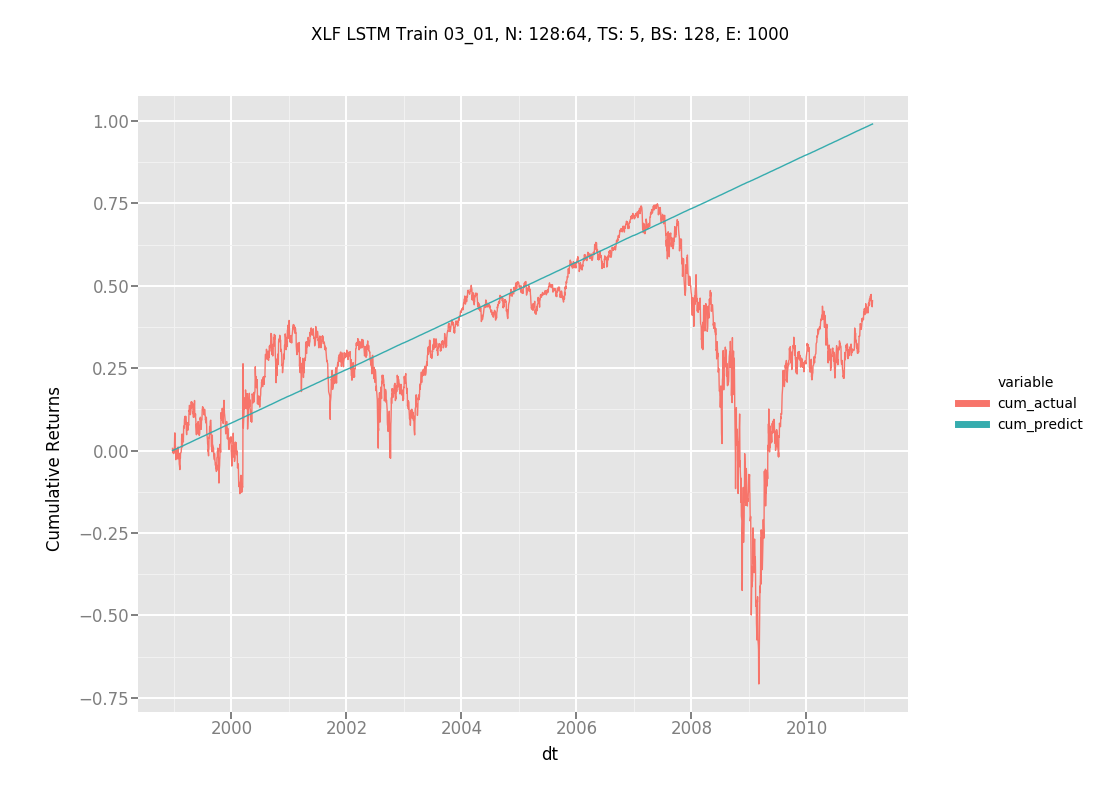
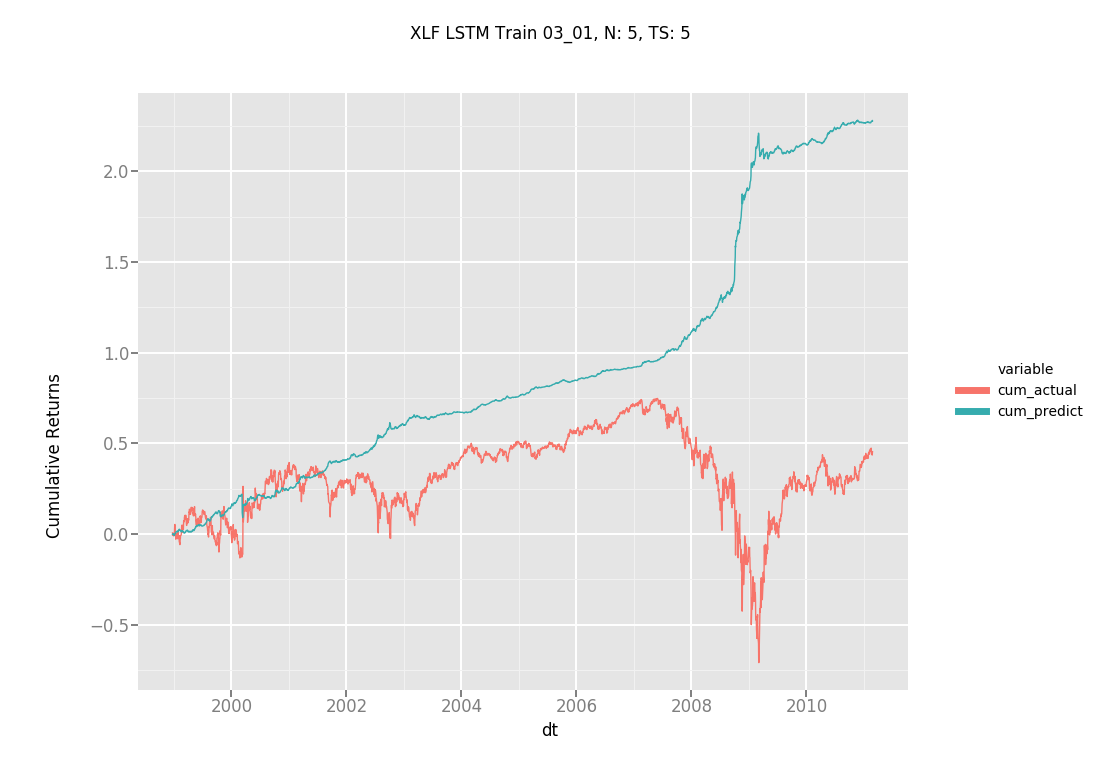
added 03_01

diff --git a/03/01/plot.py b/03/01/plot.py
@@ -3,7 +3,7 @@ import pandas as pd
 from ggplot import *
 conn = psycopg2.connect(dbname="ventris", host="192.168.1.119", user="ventris_admin", password="X4NAdu")
 
-plot_title = "XLF LSTM Train 03_01, N: 128:64, TS: 5, BS: 128, E: 1000"
+plot_title = "XLF LSTM Train 03_01, N: 5, TS: 5"
 
 # Plot scatterplot 
 plot_query = """
@@ -32,3 +32,33 @@ ggplot(pd.melt(plot_cum_df, id_vars=['dt']), aes(x='dt', y='value', color='varia
     geom_line() +\
     ggtitle(plot_title) +\
     labs(y = "Cumulative Returns")
+
+
+plot_profit_query = """
+SELECT
+  dt
+, cum_actual
+, cum_predict
+, SUM(profit) OVER (ORDER BY dt) as cum_profit
+FROM 
+(
+  SELECT
+    dt
+  , SUM(ret) OVER (ORDER BY dt) AS cum_actual
+  , SUM(prediction) OVER (ORDER BY dt) AS cum_predict
+  , CASE 
+      WHEN LAG(prediction, 1) OVER (ORDER BY dt) > 0 THEN -ret 
+      WHEN LAG(prediction, 1) OVER (ORDER BY dt) < 0 THEN ret
+      ELSE 0
+      END AS profit
+  FROM lstm_madness_train_03_01
+  ORDER BY dt
+) p
+"""
+
+plot_cum_profit_df = pd.read_sql_query(plot_profit_query, con=conn)
+
+ggplot(pd.melt(plot_cum_profit_df, id_vars=['dt']), aes(x='dt', y='value', color='variable')) +\
+    geom_line() +\
+    ggtitle(plot_title) +\
+    labs(y = "Cum Profit vs Returns")

diff --git a/03/plot.py b/03/plot.py
@@ -3,7 +3,7 @@ import pandas as pd
 from ggplot import *
 conn = psycopg2.connect(dbname="ventris", host="192.168.1.119", user="ventris_admin", password="X4NAdu")
 
-plot_title = "XLF LSTM Train 03, N: 128:64, TS: 5"
+plot_title = "XLF LSTM Train 03, N: 128:64, TS: 2"
 
 # Plot scatterplot 
 plot_query = """
@@ -32,3 +32,33 @@ ggplot(pd.melt(plot_cum_df, id_vars=['dt']), aes(x='dt', y='value', color='varia
     geom_line() +\
     ggtitle(plot_title) +\
     labs(y = "Cumulative Returns")
+
+
+plot_profit_query = """
+SELECT
+  dt
+, cum_actual
+, cum_predict
+, SUM(profit) OVER (ORDER BY dt) as cum_profit
+FROM 
+(
+  SELECT
+    dt
+  , SUM(ret) OVER (ORDER BY dt) AS cum_actual
+  , SUM(prediction) OVER (ORDER BY dt) AS cum_predict
+  , CASE 
+      WHEN LAG(prediction, 1) OVER (ORDER BY dt) > 0 THEN -ret 
+      WHEN LAG(prediction, 1) OVER (ORDER BY dt) < 0 THEN ret
+      ELSE 0
+      END AS profit
+  FROM lstm_madness_train_03
+  ORDER BY dt
+) p
+"""
+
+plot_cum_profit_df = pd.read_sql_query(plot_profit_query, con=conn)
+
+ggplot(pd.melt(plot_cum_profit_df, id_vars=['dt']), aes(x='dt', y='value', color='variable')) +\
+    geom_line() +\
+    ggtitle(plot_title) +\
+    labs(y = "Cum Profit vs Returns")

diff --git a/03/lstm_03.py b/03/lstm_03.py
@@ -1,5 +1,5 @@
 """
-LSTM with 128:64 Neurons, 5 time steps, 500 epochs
+LSTM with 128:64 Neurons, 2 time steps, 1000 epochs
 """
 import os
 import time
@@ -20,7 +20,7 @@ conn = psycopg2.connect(dbname="ventris", host="127.0.0.1", user="ventris_admin"
 engine = create_engine('postgresql://ventris_admin:X4NAdu@localhost:5432/ventris')
 
 ITERATION = "03"
-TIME_STEPS = 5
+TIME_STEPS = 2
 TRAIN_TABLENAME = "lstm_madness_train_%s" % ITERATION
 
 def df_dataset(query, conn):
@@ -152,11 +152,8 @@ number_of_features = train_x.shape[2]
 
 d = 0.2
 model = Sequential()
-model.add(LSTM(128, input_dim=number_of_features, return_sequences=True))
+model.add(LSTM(2, input_dim=number_of_features))
 model.add(Dropout(d))
-model.add(LSTM(64, input_dim=number_of_features, return_sequences=False))
-model.add(Dropout(d))
-model.add(Dense(16,init='uniform',activation='relu'))        
 model.add(Dense(1,init='uniform',activation='linear'))
 model.compile(loss='mse',optimizer='adam',metrics=['accuracy'])
 

diff --git a/03/01/lstm_03_01.py b/03/01/lstm_03_01.py
@@ -1,5 +1,5 @@
 """
-LSTM with 128:64 Neurons, 5 time steps, 500 epochs
+LSTM with 5 Neurons, 5 time steps, 1000 epochs
 """
 import os
 import time
@@ -152,18 +152,15 @@ number_of_features = train_x.shape[2]
 
 d = 0.2
 model = Sequential()
-model.add(LSTM(128, input_dim=number_of_features, return_sequences=True))
-model.add(Dropout(d))
-model.add(LSTM(64, input_dim=number_of_features, return_sequences=False))
-model.add(Dropout(d))
-model.add(Dense(16,init='uniform',activation='relu'))        
+model.add(LSTM(5, input_dim=number_of_features))
+model.add(Dropout(d))    
 model.add(Dense(1,init='uniform',activation='linear'))
 model.compile(loss='mse',optimizer='adam',metrics=['accuracy'])
 
 model.fit(
     train_x,
     train_y,
-    batch_size=128,
+    batch_size=32,
     nb_epoch=1000,
     validation_split=0.1,
     verbose=1)

diff --git a/04/README.md b/04/README.md
@@ -1,0 +1,3 @@
+# 04
+
+Explore whether we need to convert Y Values to a binary (1 = up, 0 = down) versus continous (data)
